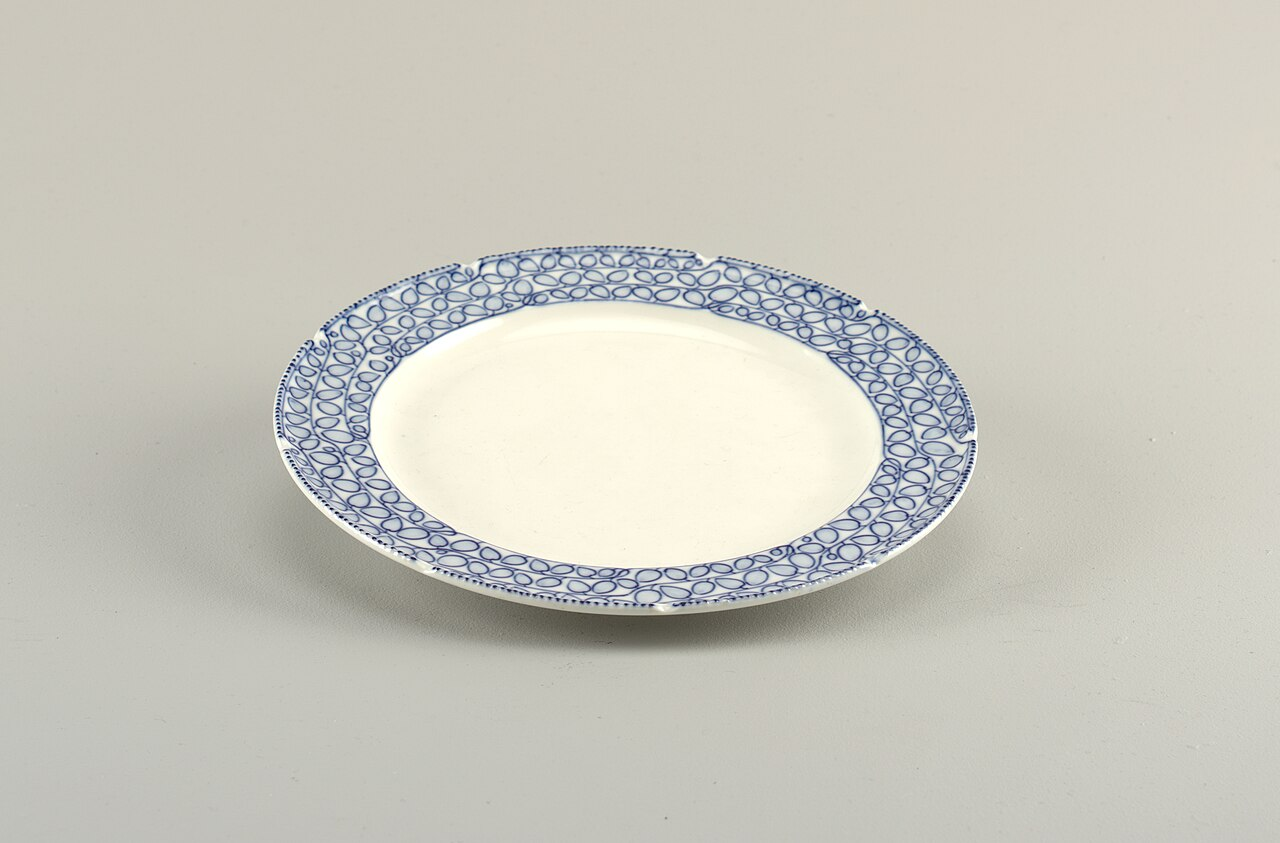
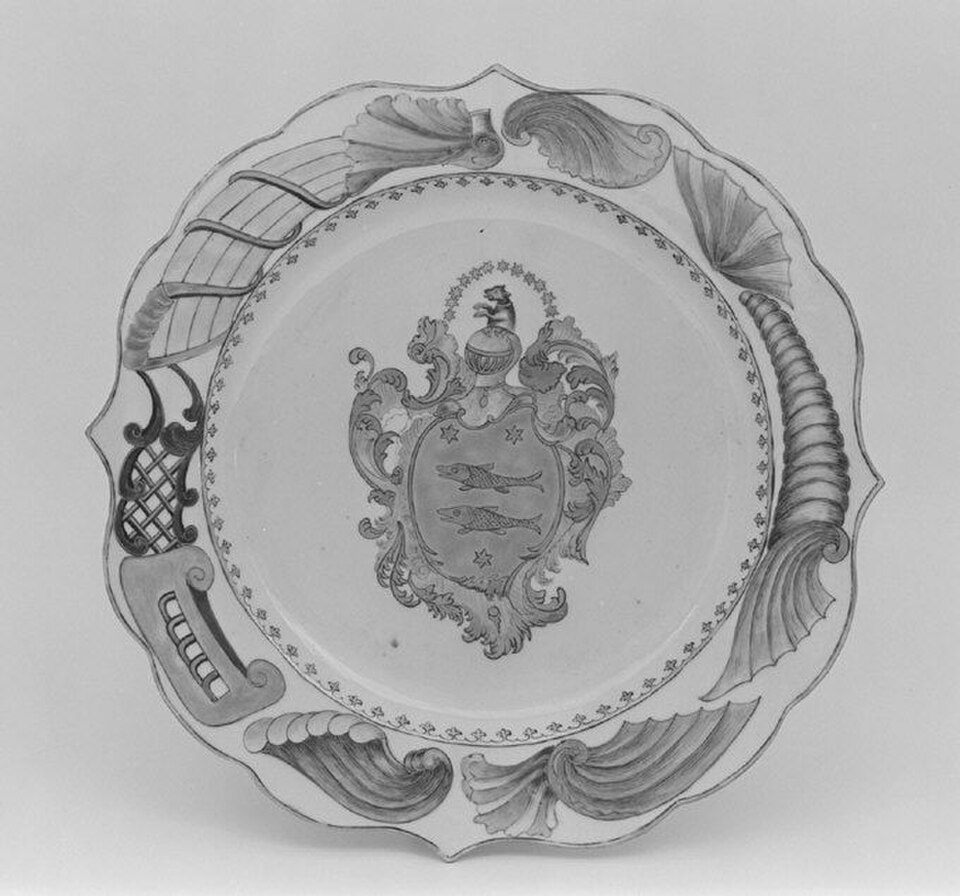
Card decks: cell-count fixes, a CC0 plate, and post text for all four
cell-count: drop the unspoken '44% HUMAN' label, ring the scale's 200 g mark
instead of drawing a second needle, and show 'mostly blood' as a count of the
30 trillion cells in place of the low-contrast illustration (picture removed).

deepest-hole: replace the Cooper Hewitt plate, whose photograph had no licence
statement of its own, with a Met Open Access plate (CC0, 25.6 cm).

publish/: post text for the four card decks so the kit can build them.

Claude-Session: https://claude.ai/code/session_01B7bWcU1XwyEBgrLjPAWfzn

diff --git a/henry-short/src/shorts/cell-count-cutout/index.tsx b/henry-short/src/shorts/cell-count-cutout/index.tsx
@@ -30,7 +30,8 @@ import type { Short } from "../types";
 //
 // Every number on a card is one of the script's own (script/cell-count.txt carries the paper behind
 // them): 30 trillion human cells, 38 trillion bacteria, about 200 g, 84% red blood cells BY COUNT,
-// and the 44% that 30 of 68 comes to. Every picture is a real public-domain or CC0 one and is
+// The first card splits its figure at 30 of 68 and puts no percentage on it: the paper's error
+// margin does not carry one. Every picture is a real public-domain or CC0 one and is
 // labelled as what its Commons page says it is; public/SOURCES.json carries where each came from.
 const edit = makeEdit({
   alignment,
@@ -98,7 +99,6 @@ const PICS = {
   kitchen: [1280, 1707],
   diagram: [1280, 1038],
   sem: [1280, 1592],
-  blood: [1280, 960],
 } as const;
 export const Cut = makeCut("cells", PICS);
 
@@ -400,13 +400,10 @@ const onScale = (px: number, py: number) => {
     SCALE.y - (SCALE.box[3] * k) / 2 + (py - SCALE.box[1]) * k,
   ] as const;
 };
-// The dial reads clockwise to 2 kg, so 200 g is a tenth of the way round from the top. The photograph
-// shows the scale empty, its own needle at zero; the marker needle is where 200 g would put it.
-const HUB = onScale(628, 955);
-const TICK = onScale(
-  628 + Math.sin(Math.PI / 5) * 318,
-  955 - Math.cos(Math.PI / 5) * 318,
-);
+// The dial reads clockwise to 2 kg, so 200 g is a tenth of the way round from the top (about 40° as photographed). The photograph
+// shows the scale empty, its needle at zero; marker rings the 200 g mark and draws no second needle.
+const TICK = onScale(628 + Math.sin(0.7) * 258, 955 - Math.cos(0.7) * 258);
+const RING = 58;
 
 // Where the figure sits on the first card, and its outline there, so the tissue over the part of
 // him that is not human can be trimmed to the paper he is cut from.
@@ -464,15 +461,6 @@ const Deck: React.FC = () => (
         size={104}
       />
       <Word text="LESS THAN HALF" at={F.less - 1} size={108} tilt={3} />
-      <Burst at={F.human} x={300} y={245} r={130} colour={CORAL} n={11} />
-      <Scrap
-        text={`${Math.round(SHARE * 100)}% HUMAN`}
-        at={F.human}
-        x={300}
-        y={245}
-        size={68}
-        tilt={-6}
-      />
     </Shot>
 
     {/* 2. About thirty trillion of your cells are yours. */}
@@ -564,11 +552,11 @@ const Deck: React.FC = () => (
       />
       <Marker>
         <Stroke
-          d={`M${HUB[0]} ${HUB[1]} L${TICK[0]} ${TICK[1]}`}
+          d={`M${TICK[0] - RING} ${TICK[1]} a${RING} ${RING} 0 1 1 ${RING * 2} 0 a${RING} ${RING} 0 1 1 ${-RING * 2} 0`}
           from={F.two - 3}
-          to={F.two + 3}
+          to={F.two + 5}
           colour={TEAL}
-          width={22}
+          width={16}
         />
       </Marker>
       <Burst at={F.two} x={540} y={1190} r={125} colour={CORAL} n={12} />
@@ -649,24 +637,26 @@ const Deck: React.FC = () => (
       />
     </Shot>
 
-    {/* 8. By count, your cells are mostly blood. */}
-    <Shot from={F.sentence6 - 2} to={F.sentence7 - 2} tilt={1.5} sheet={YELLOW}>
-      <Cut
-        pic="blood"
-        x={540}
-        y={590}
-        w={850}
-        box={[90, 0, 830, 690]}
-        tilt={2}
-        tone="saturate(1.25) contrast(1.12)"
-        punch={F.mostly}
-        by={1.08}
-      />
+    {/* 8. By count, your cells are mostly blood. The claim as the count it is: a dot for each of
+        the 30 trillion, the 25 that are red blood cells in red. Card 9 sets the bacteria beside it. */}
+    <Shot from={F.sentence6 - 2} to={F.sentence7 - 2}>
+      <Marker>
+        <g transform="translate(540 1050) scale(1.85) translate(-540 -1050)">
+          <Tally
+            x={540}
+            base={1050}
+            n={HUMAN}
+            from={F.sentence6}
+            over={F.mostly - F.sentence6}
+            colour={(i) => (i < RED ? CORAL : YELLOW)}
+          />
+        </g>
+      </Marker>
       <Scrap
         text="BY COUNT"
         at={F.byCount - 4}
-        x={330}
-        y={270}
+        x={300}
+        y={150}
         size={96}
         tilt={-6}
       />

diff --git a/henry-short/src/shorts/deepest-hole-cutout/index.tsx b/henry-short/src/shorts/deepest-hole-cutout/index.tsx
@@ -88,9 +88,9 @@ const F = {
 // The numbers on screen, each from script/deepest-hole.txt.
 const DEPTH_M = 12262;
 const BORE_CM = 23;
-// The plate in the picture is 26 cm across by its museum's record, so the hole can be drawn against
+// The plate in the picture is 25.6 cm across by its museum's record, so the hole can be drawn against
 // it to scale: a little smaller, as the script's notes say a dinner plate is.
-const PLATE_CM = 26;
+const PLATE_CM = 25.6;
 const STARTED = 1970;
 const REACHED = 1989;
 const ROCK_C = 180;
@@ -112,7 +112,7 @@ const CREAM = "#fffdf6";
 // The pictures in public/cutout/hole/, with their pixel sizes.
 const PICS = {
   stamp: [560, 800],
-  plate: [1280, 843],
+  plate: [960, 896],
   map: [1280, 930],
   bit: [960, 1280],
   wornbit: [1280, 1034],
@@ -126,6 +126,7 @@ const ellipse = (cx: number, cy: number, rx: number, ry = rx, n = 48) =>
     return [cx + Math.cos(a) * rx, cy + Math.sin(a) * ry] as const;
   });
 
+const PLATE_R = 398;
 // Outlines cut around a subject, in the picture's pixels.
 const OUTLINE = {
   // The disc of the Earth, without the black of space around it.
@@ -134,11 +135,11 @@ const OUTLINE = {
     box: [73, 74, 1132, 1132],
     pts: ellipse(639, 640, 566),
   },
-  // The plate is photographed at an angle, so its rim is an ellipse: 358 by 190 pixels.
+  // The plate is photographed face on: a circle PLATE_R pixels in radius round its scalloped rim.
   plate: {
     pic: "plate",
-    box: [262, 232, 728, 392],
-    pts: ellipse(626, 428, 358, 190),
+    box: [83, 60, 804, 804],
+    pts: ellipse(485, 462, PLATE_R),
   },
   // The three toothed cones of the bit, without the museum case and the gloved hands around it.
   bit: {
@@ -270,10 +271,10 @@ const derrick = (x: number, y: number, h: number) =>
 // over it, and then a real dinner plate dropped on top, which covers it.
 const Hole: React.FC = () => {
   const f = useCurrentFrame();
-  const [x, y] = [540, 700];
-  const w = 800;
+  const [x, y] = [540, 730];
+  const w = 700;
   const k = (w / OUTLINE.plate.box[2]) * (BORE_CM / PLATE_CM);
-  const [rx, ry] = [358 * k, 190 * k];
+  const [rx, ry] = [PLATE_R * k, PLATE_R * k];
   const lineY = y - ry - 78;
   const covered = f >= F.dinner + 5;
   return (
